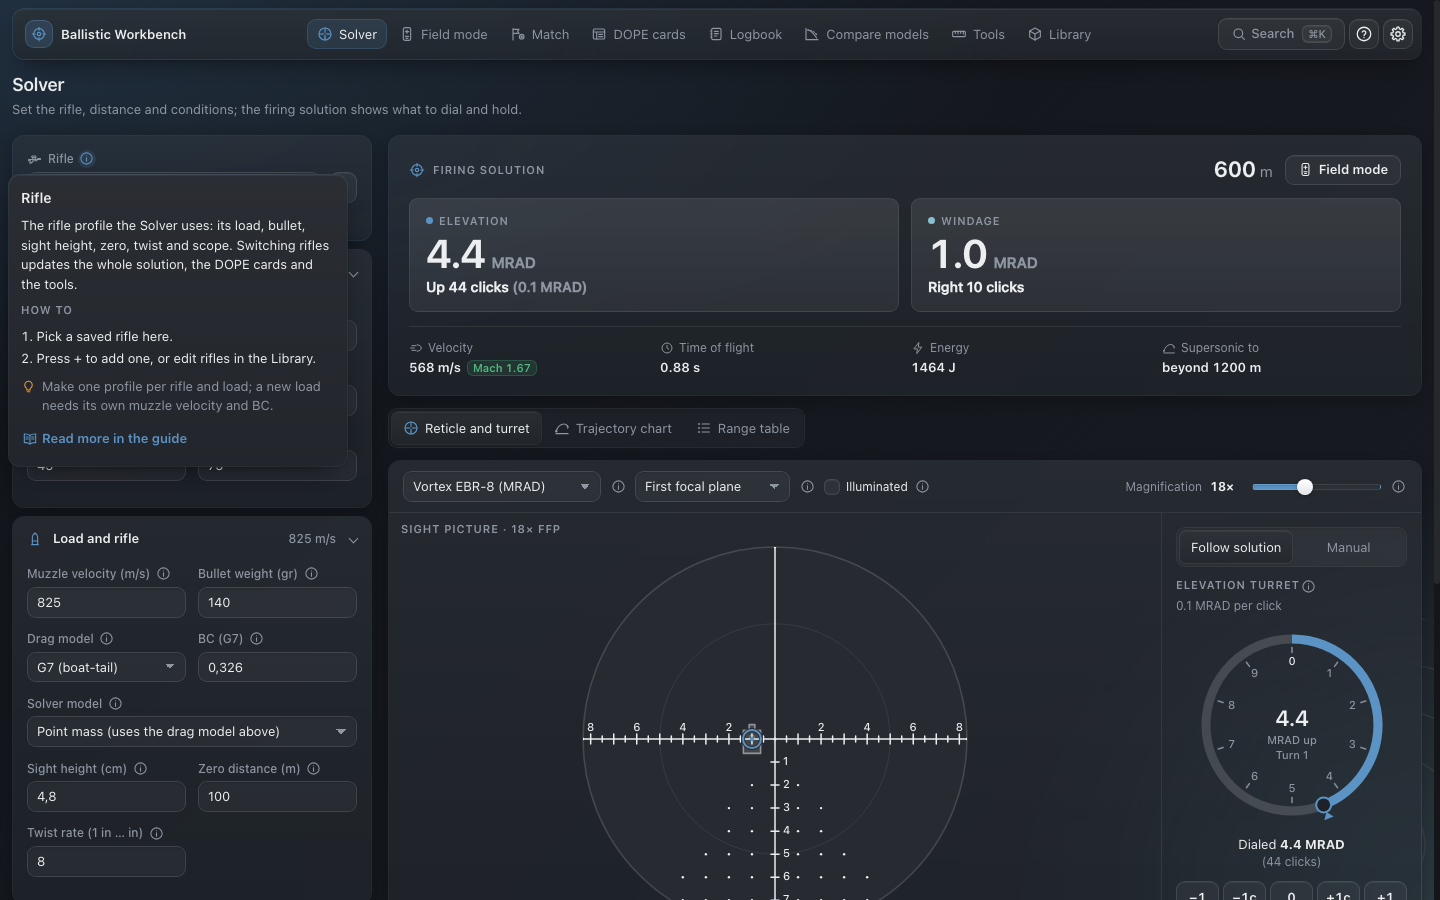
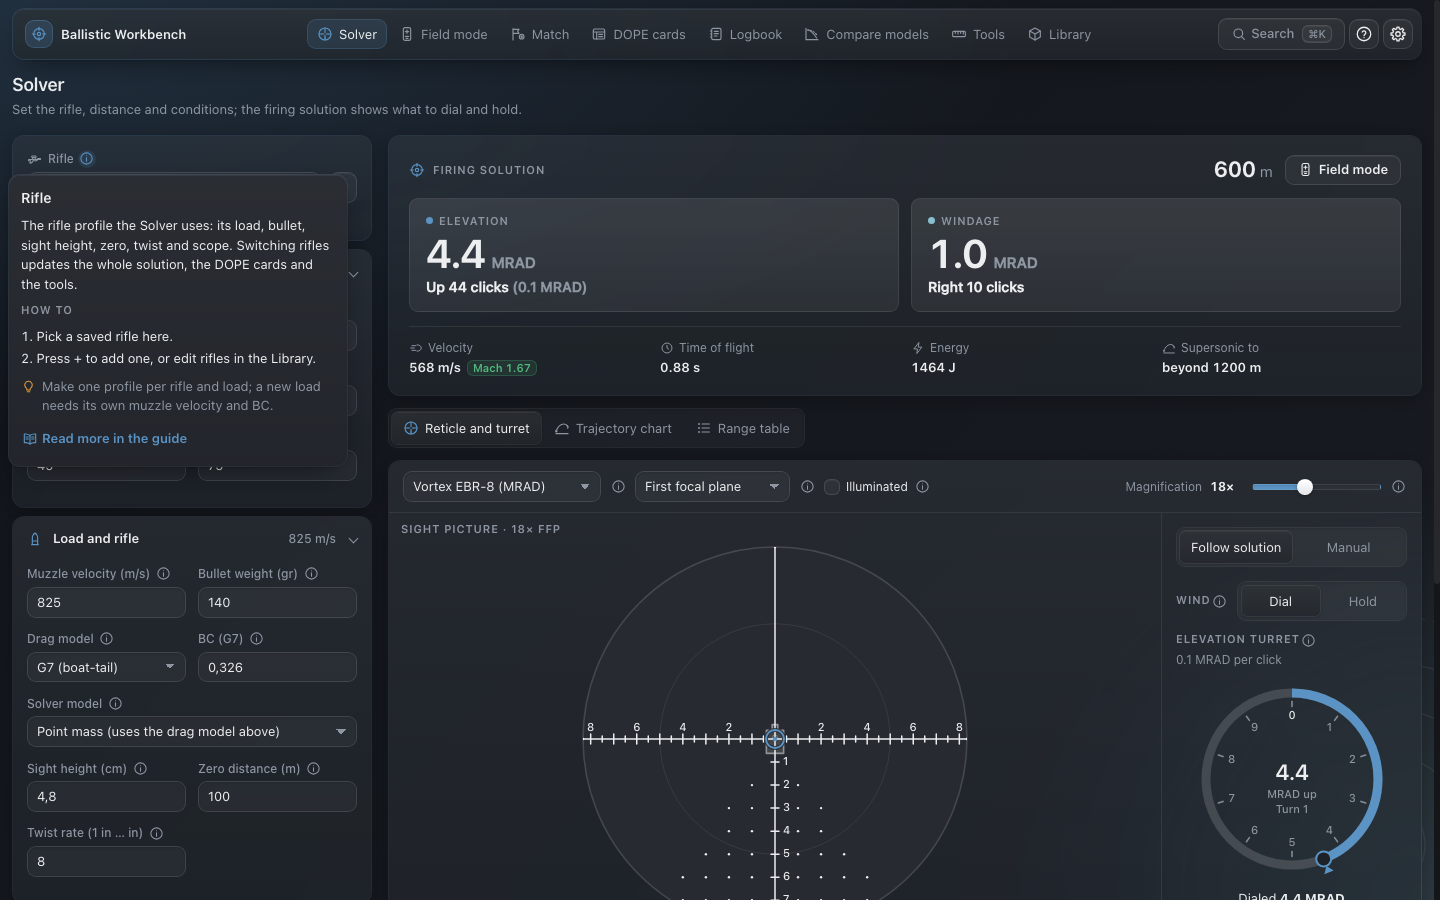
Release 0.1.1: steady sight picture (wind dial/hold), Låda Glass 2.2.1
Patch release: a reticle-view fix and a design-system bug-fix update.

Changed region(s): [[0.8125, 0.6222, 0.9688, 1.0], [0.5, 0.8089, 0.5625, 0.84]]

diff --git a/sw.js b/sw.js
@@ -7,7 +7,7 @@
 
 // Keep in step with "version" in manifest.json (tests/version.mjs checks it). A new version
 // gets a new cache, so old cached files are dropped on activate.
-const CACHE_NAME = 'ballistic-workbench-v0.1.0';
+const CACHE_NAME = 'ballistic-workbench-v0.1.1';
 const STATIC_ASSETS = [
   './',
   './index.html',

diff --git a/README.md b/README.md
@@ -9,7 +9,7 @@ It's for long-range and PRS/NRL shooters, hunters and reloaders who want to plan
 solutions on a laptop or phone, with or without a network on the range. Everything runs in the
 browser; nothing is sent anywhere.
 
-**Version:** 0.1.0
+**Version:** 0.1.1
 
 **Use it online:** <https://jozeta.github.io/Ballistic-Workbench/>. Nothing to install; after the
 first visit it also works offline, and you can add it to your home screen.
@@ -18,6 +18,16 @@ first visit it also works offline, and you can add it to your home screen.
 > fire on a safe range before relying on them.
 
 ## What's new
+
+### 0.1.1
+
+- **Steady sight picture:** in the Solver's reticle view the target no longer slides sideways as
+  you change the distance. A new **Wind: Dial / Hold** switch next to the turret: Dial (default)
+  puts the wind on the windage turret so the target stays on the crosshair; Hold shows it on the
+  wind mark.
+- **Hosted online** at <https://jozeta.github.io/Ballistic-Workbench/>, so share links and QR codes
+  open on any device.
+- Låda Glass 2.2.1 (design system bug fixes).
 
 ### 0.1.0
 

diff --git a/CHANGELOG.md b/CHANGELOG.md
@@ -5,14 +5,19 @@ All notable changes to Ballistic Workbench. Newest first; versions follow
 
 ## Unreleased
 
+## 0.1.1 - 2026-11-16
+
+### Fixed
+
 - Solver, reticle view: the target no longer slides sideways as the distance changes. A new
   **Wind: Dial / Hold** switch next to the turret; Dial (the default) puts the wind correction on the
   windage turret too, so the target stays on the crosshair; Hold shows it on the wind mark as before.
   The reticle caption reads "Dialed 10.2 up, 1.9 right MRAD".
 
+### Changed
+
 - Låda Glass updated to 2.2.1 (bug fixes in the design system: a dialog reopened while it is
   closing stays open, charts with very many points no longer fail, number steppers accept tiny steps).
-
 - The app is hosted on GitHub Pages: <https://jozeta.github.io/Ballistic-Workbench/>. Share links and
   QR codes made there open on any device.
 
